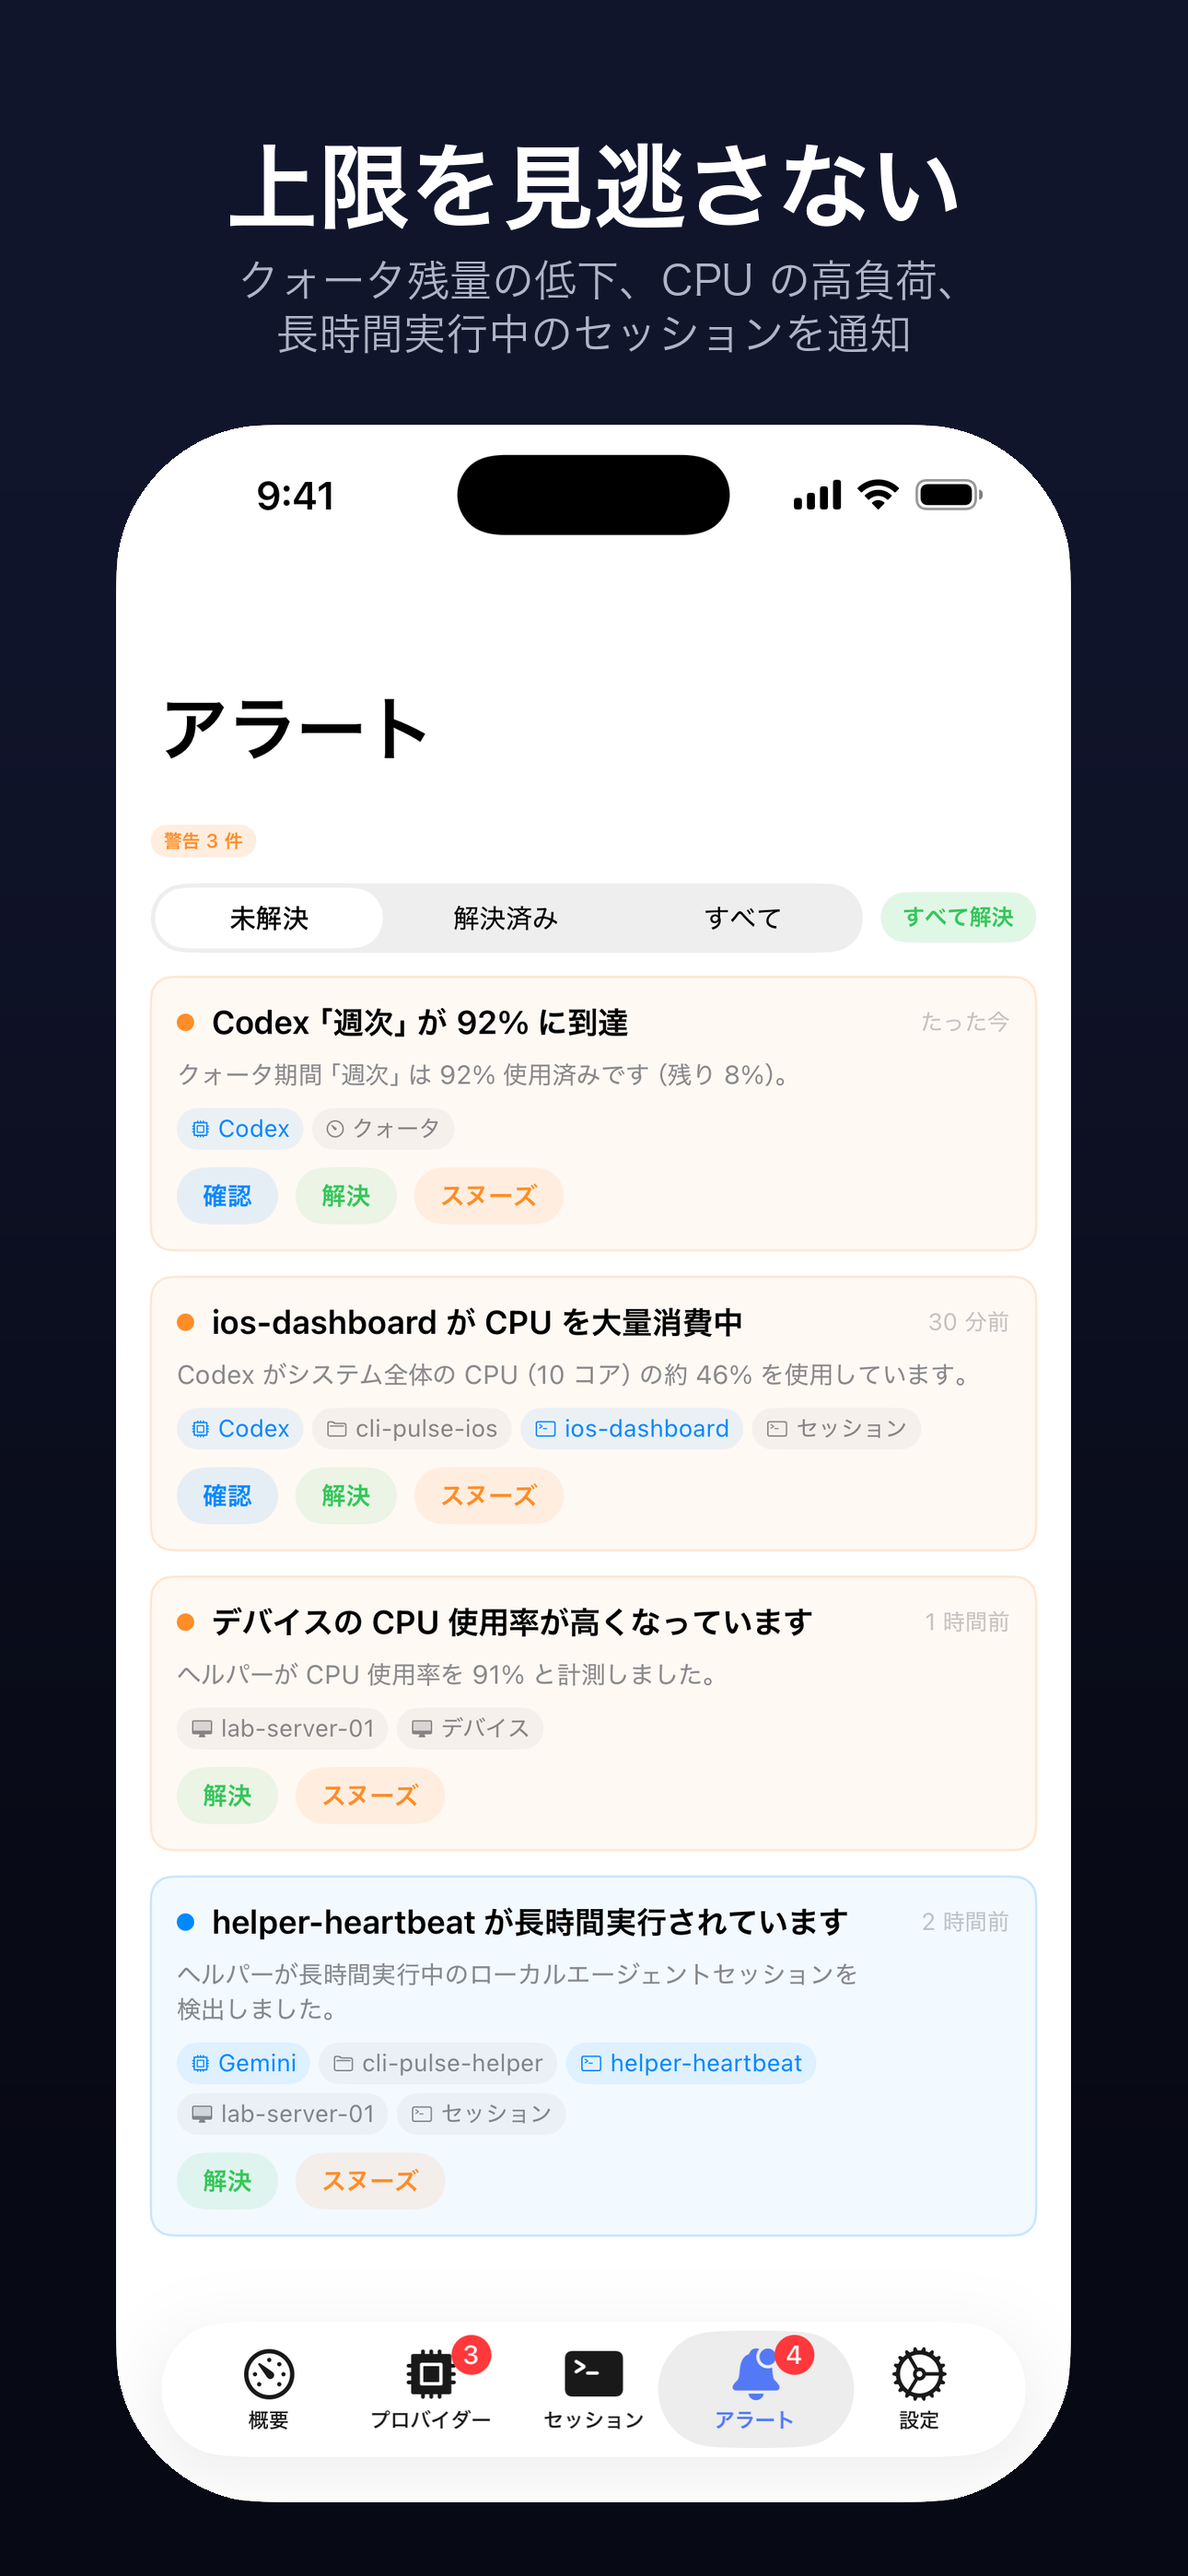
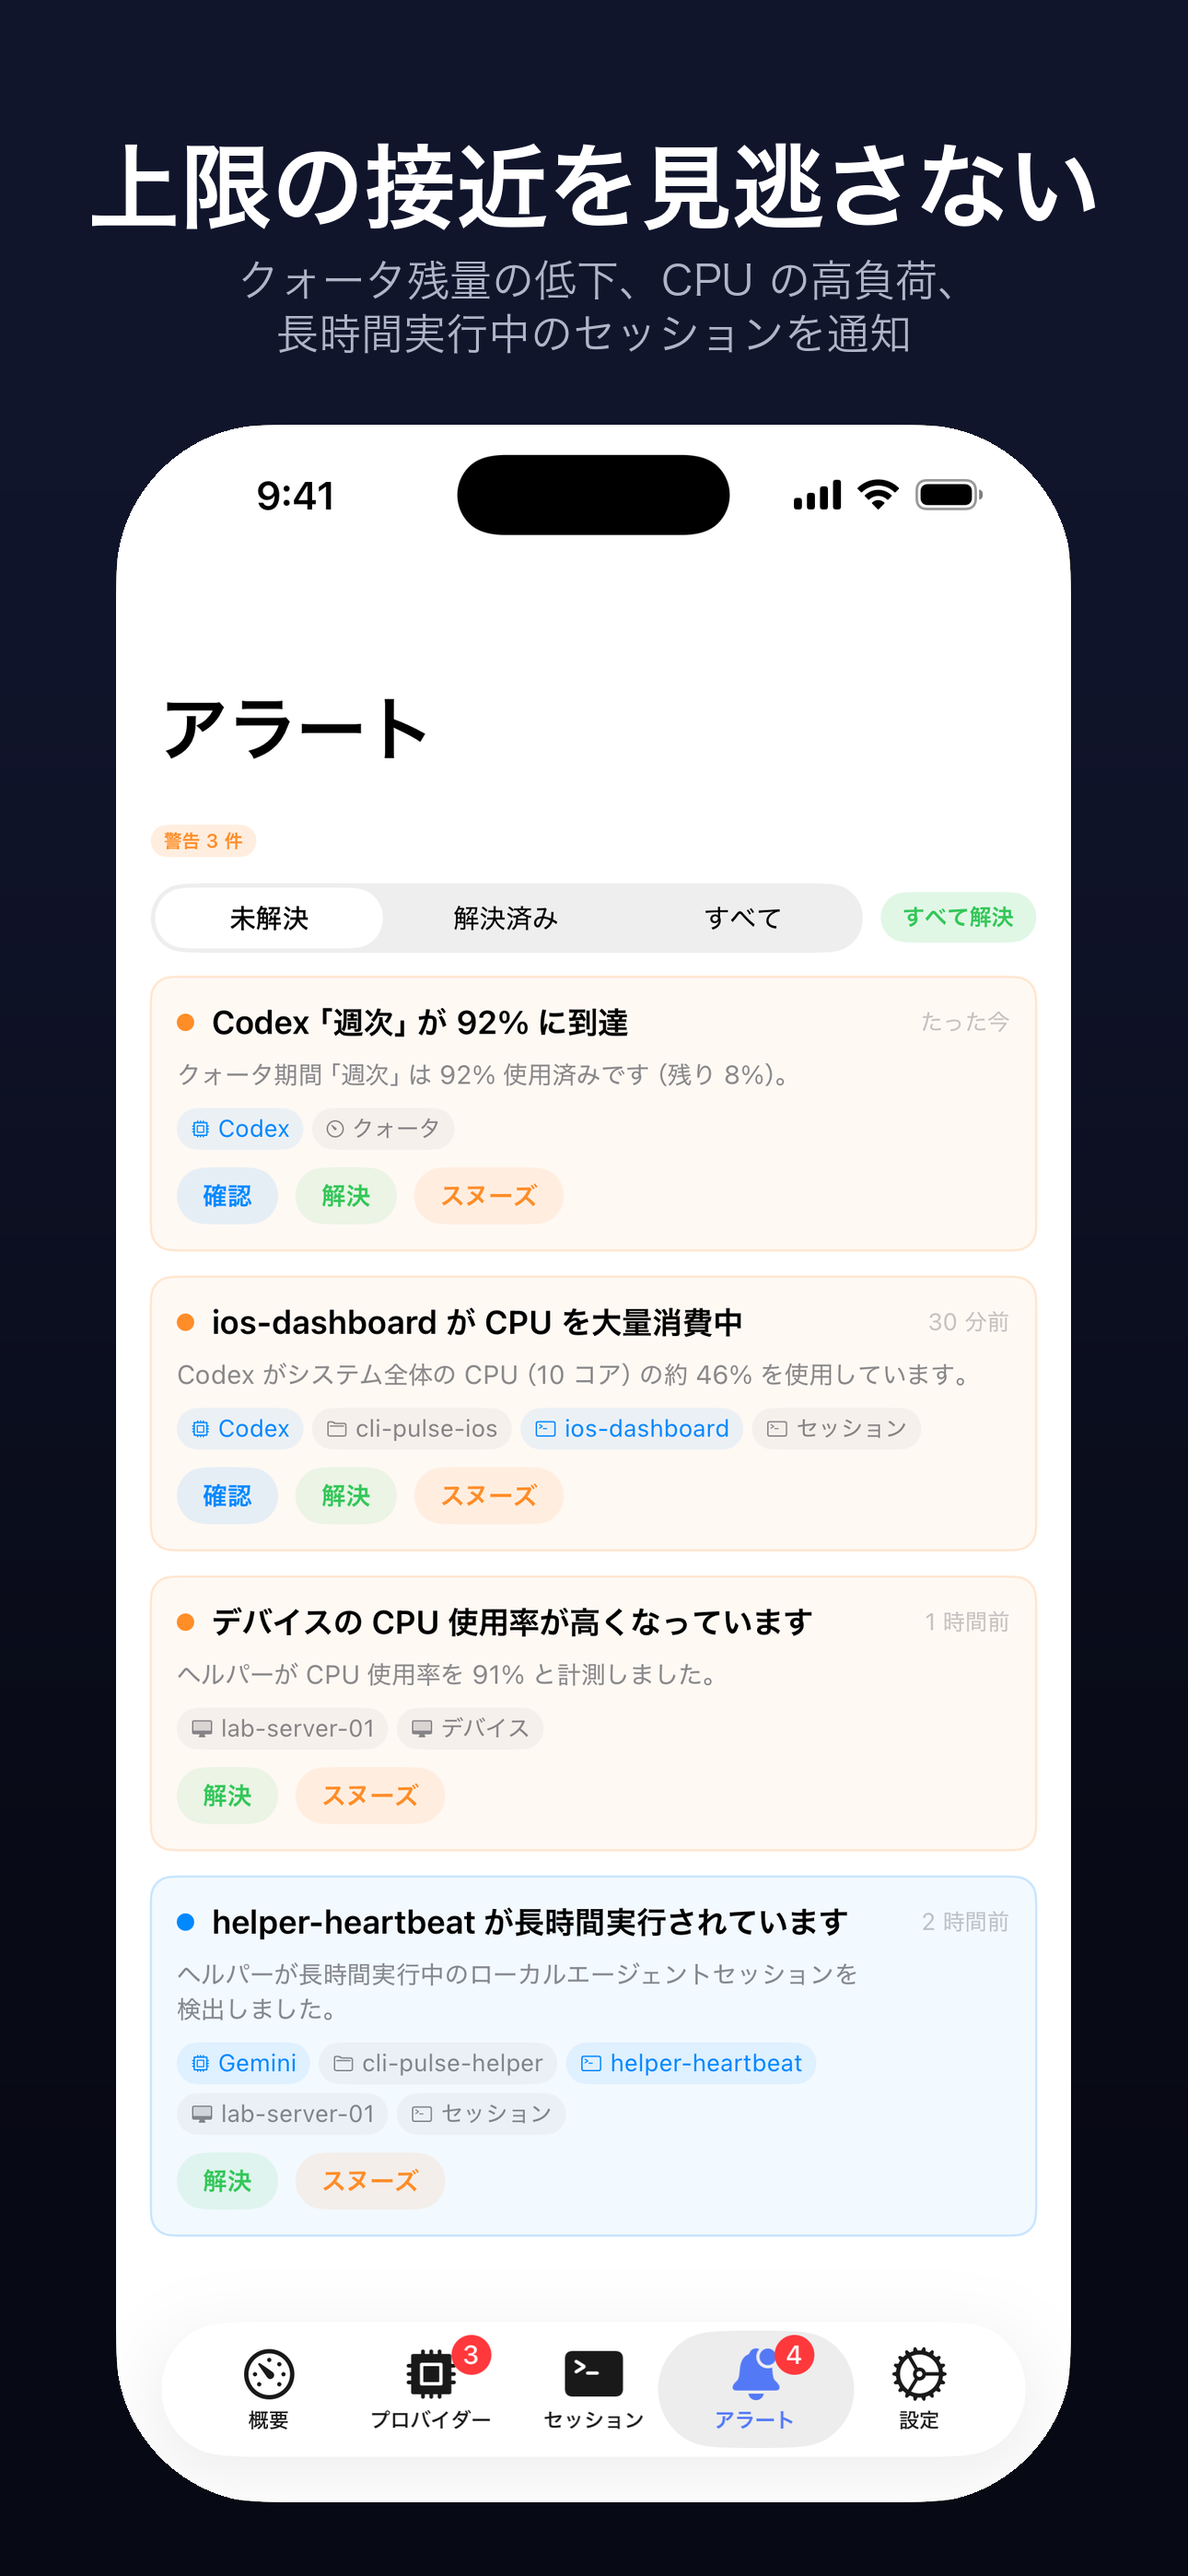
Caption fixes from the native reviews, and the ko and ja panels recomposed
- en 02: "what's" with a typewriter apostrophe at 46pt; now the curly one.
- en 05: "Alerts for quota, CPU spikes and long-running sessions" was the
  only en subtitle on two lines (1054 px against the 989 px one-line
  limit), so its headline sat higher than the other four. "Quota, CPU
  spike and long-running session alerts" fits one line (950 px).
- zh-Hans 05: likewise the only two-line subtitle; shortened to one.
- ko 03: "비용이 어디에 드는지" stopped mid-clause; now a complete
  question, "비용, 어디에 쓰이나요?" (905 px, the set stays at 100pt).
- ko 05: "CPU 과부하" overstated a 46% reading; "CPU 사용률 급증".
- ja 05: "上限の接近を見逃さない" names the warning before the limit,
  which is what the 92% alert on the screen is. Same 100pt title.
- es 02: "Descubre" read as a tagline; "Consulta".

ko and ja are recomposed from their committed captures (nothing in the
app changed for them); en, zh-Hans and es follow with their recaptures.

Changed region(s): [[0.093, 0.0311, 0.9302, 0.0933]]

diff --git a/CLI Pulse Bar/scripts/compose_appstore_ios_screenshots.py b/CLI Pulse Bar/scripts/compose_appstore_ios_screenshots.py
@@ -130,20 +130,20 @@ COPY: dict[str, dict[str, tuple[str, str]]] = {
         "01_overview": ("Everything at a glance",
                         "Usage, cost, sessions and alerts, all on one screen"),
         "02_providers": ("Live quotas and costs",
-                         "See what's left before you hit the wall"),
+                         "See what’s left before you hit the wall"),
         "03_cost": ("Where the money goes",
                     "Per-provider cost, top projects and risk signals"),
         "04_sessions": ("Every CLI run tracked",
                         "Active sessions with usage, cost and requests"),
         "05_alerts": ("Never miss a limit",
-                      "Alerts for quota, CPU spikes and long-running sessions"),
+                      "Quota, CPU spike and long-running session alerts"),
     },
     "zh-Hans": {
         "01_overview": ("关键数据，一屏总览", "用量、费用、会话和告警，打开就能看到"),
         "02_providers": ("实时掌握配额与费用", "离上限还有多远，一眼就知道"),
         "03_cost": ("钱都花在了哪里", "按服务商细分的费用、主要项目和风险信号"),
         "04_sessions": ("每个会话都有账可查", "活跃会话的用量、费用和请求数"),
-        "05_alerts": ("配额不再突然见底", "配额将尽、CPU 占用过高、会话运行过久，都会发出告警"),
+        "05_alerts": ("配额不再突然见底", "配额将尽、CPU 过高、会话过久，都会告警"),
     },
     "zh-Hant": {
         "01_overview": ("一眼掌握全局", "用量、費用、工作階段與警示，一頁看完"),
@@ -157,20 +157,20 @@ COPY: dict[str, dict[str, tuple[str, str]]] = {
         "02_providers": ("クォータとコストを把握", "上限に達する前に、\u200b残りがわかる"),
         "03_cost": ("コストの内訳がわかる", "プロバイダー別のコスト、\u200b上位プロジェクト、\u200bリスクシグナル"),
         "04_sessions": ("CLI の実行をすべて記録", "アクティブなセッションの\u200b使用量、コスト、リクエスト数"),
-        "05_alerts": ("上限を見逃さない", "クォータ残量の低下、CPU の高負荷、\u200b長時間実行中のセッションを通知"),
+        "05_alerts": ("上限の接近を見逃さない", "クォータ残量の低下、CPU の高負荷、\u200b長時間実行中のセッションを通知"),
     },
     "ko": {
         "01_overview": ("모든 것을 한눈에", "사용량, 비용, 세션, 알림을 한 화면에서"),
         "02_providers": ("실시간 할당량과 비용", "한도까지 얼마나 남았는지 바로 확인하세요"),
-        "03_cost": ("비용이 어디에 드는지", "공급자별 비용, 상위 프로젝트, 위험 신호"),
+        "03_cost": ("비용, 어디에 쓰이나요?", "공급자별 비용, 상위 프로젝트, 위험 신호"),
         "04_sessions": ("모든 CLI 실행을 기록", "활성 세션의 사용량, 비용, 요청 수"),
-        "05_alerts": ("할당량이 바닥나기 전에", "CPU 과부하와 오래 실행 중인 세션도 알려 드려요"),
+        "05_alerts": ("할당량이 바닥나기 전에", "CPU 사용률 급증과 오래 실행 중인 세션도 알려 드려요"),
     },
     "es": {
         "01_overview": ("Todo de un vistazo",
                         "Uso, costos, sesiones y alertas en una sola pantalla"),
         "02_providers": ("Cuotas y costos en vivo",
-                         "Descubre cuánto te queda antes de llegar al límite"),
+                         "Consulta cuánto te queda antes de llegar al límite"),
         "03_cost": ("En qué se va tu dinero",
                     "Costo por proveedor y proyecto, con señales de riesgo"),
         "04_sessions": ("Cada ejecución, registrada",
